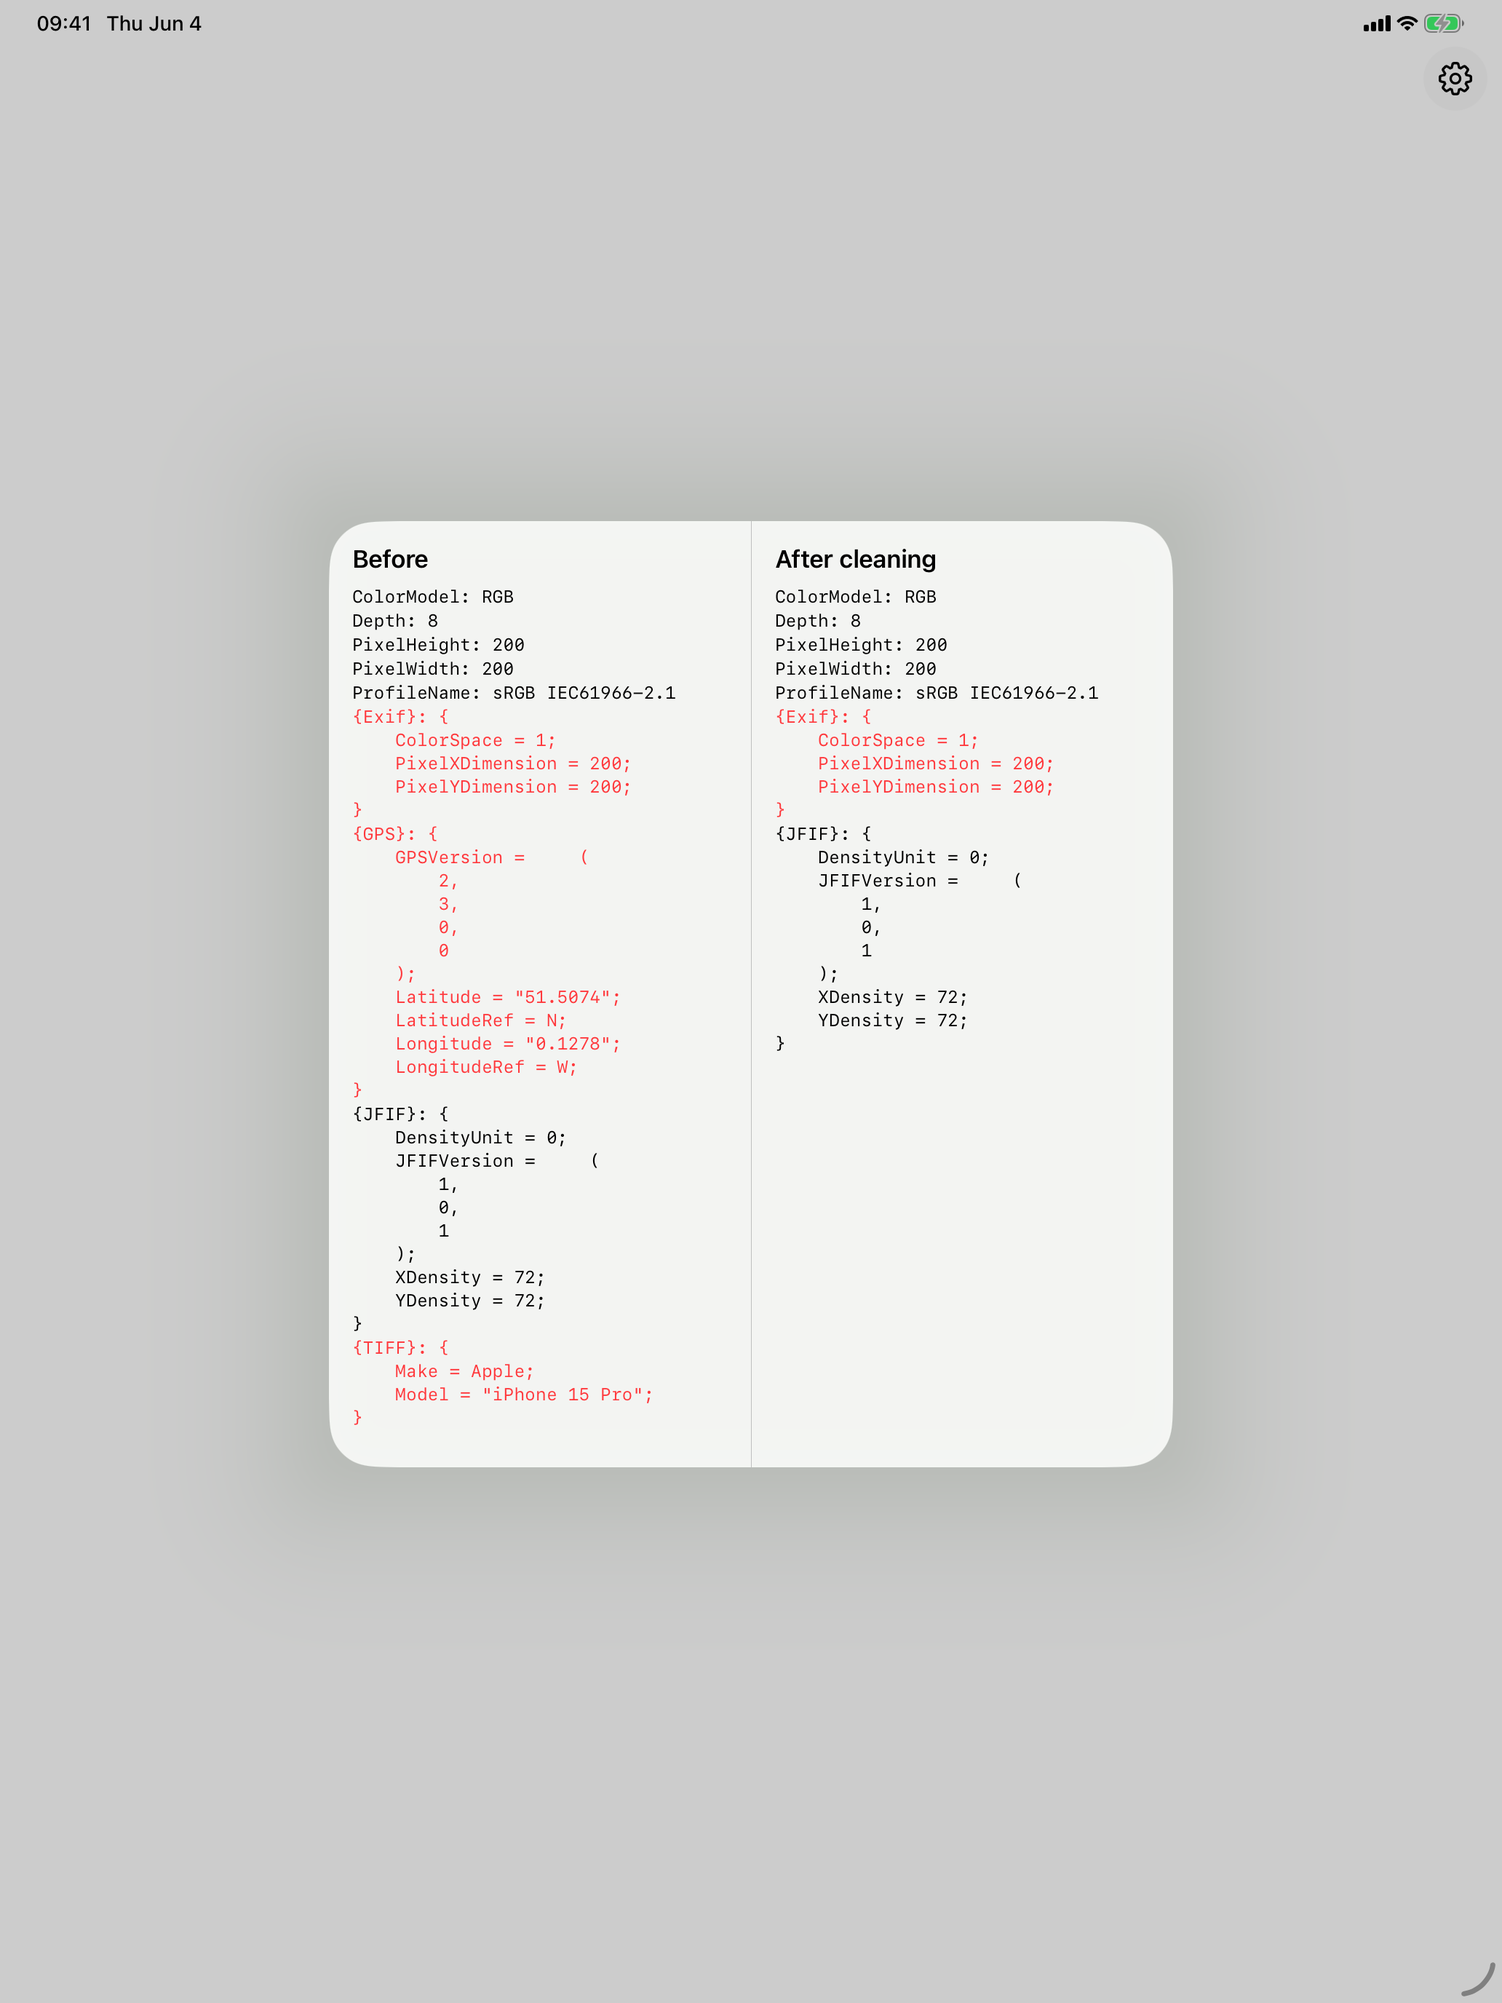
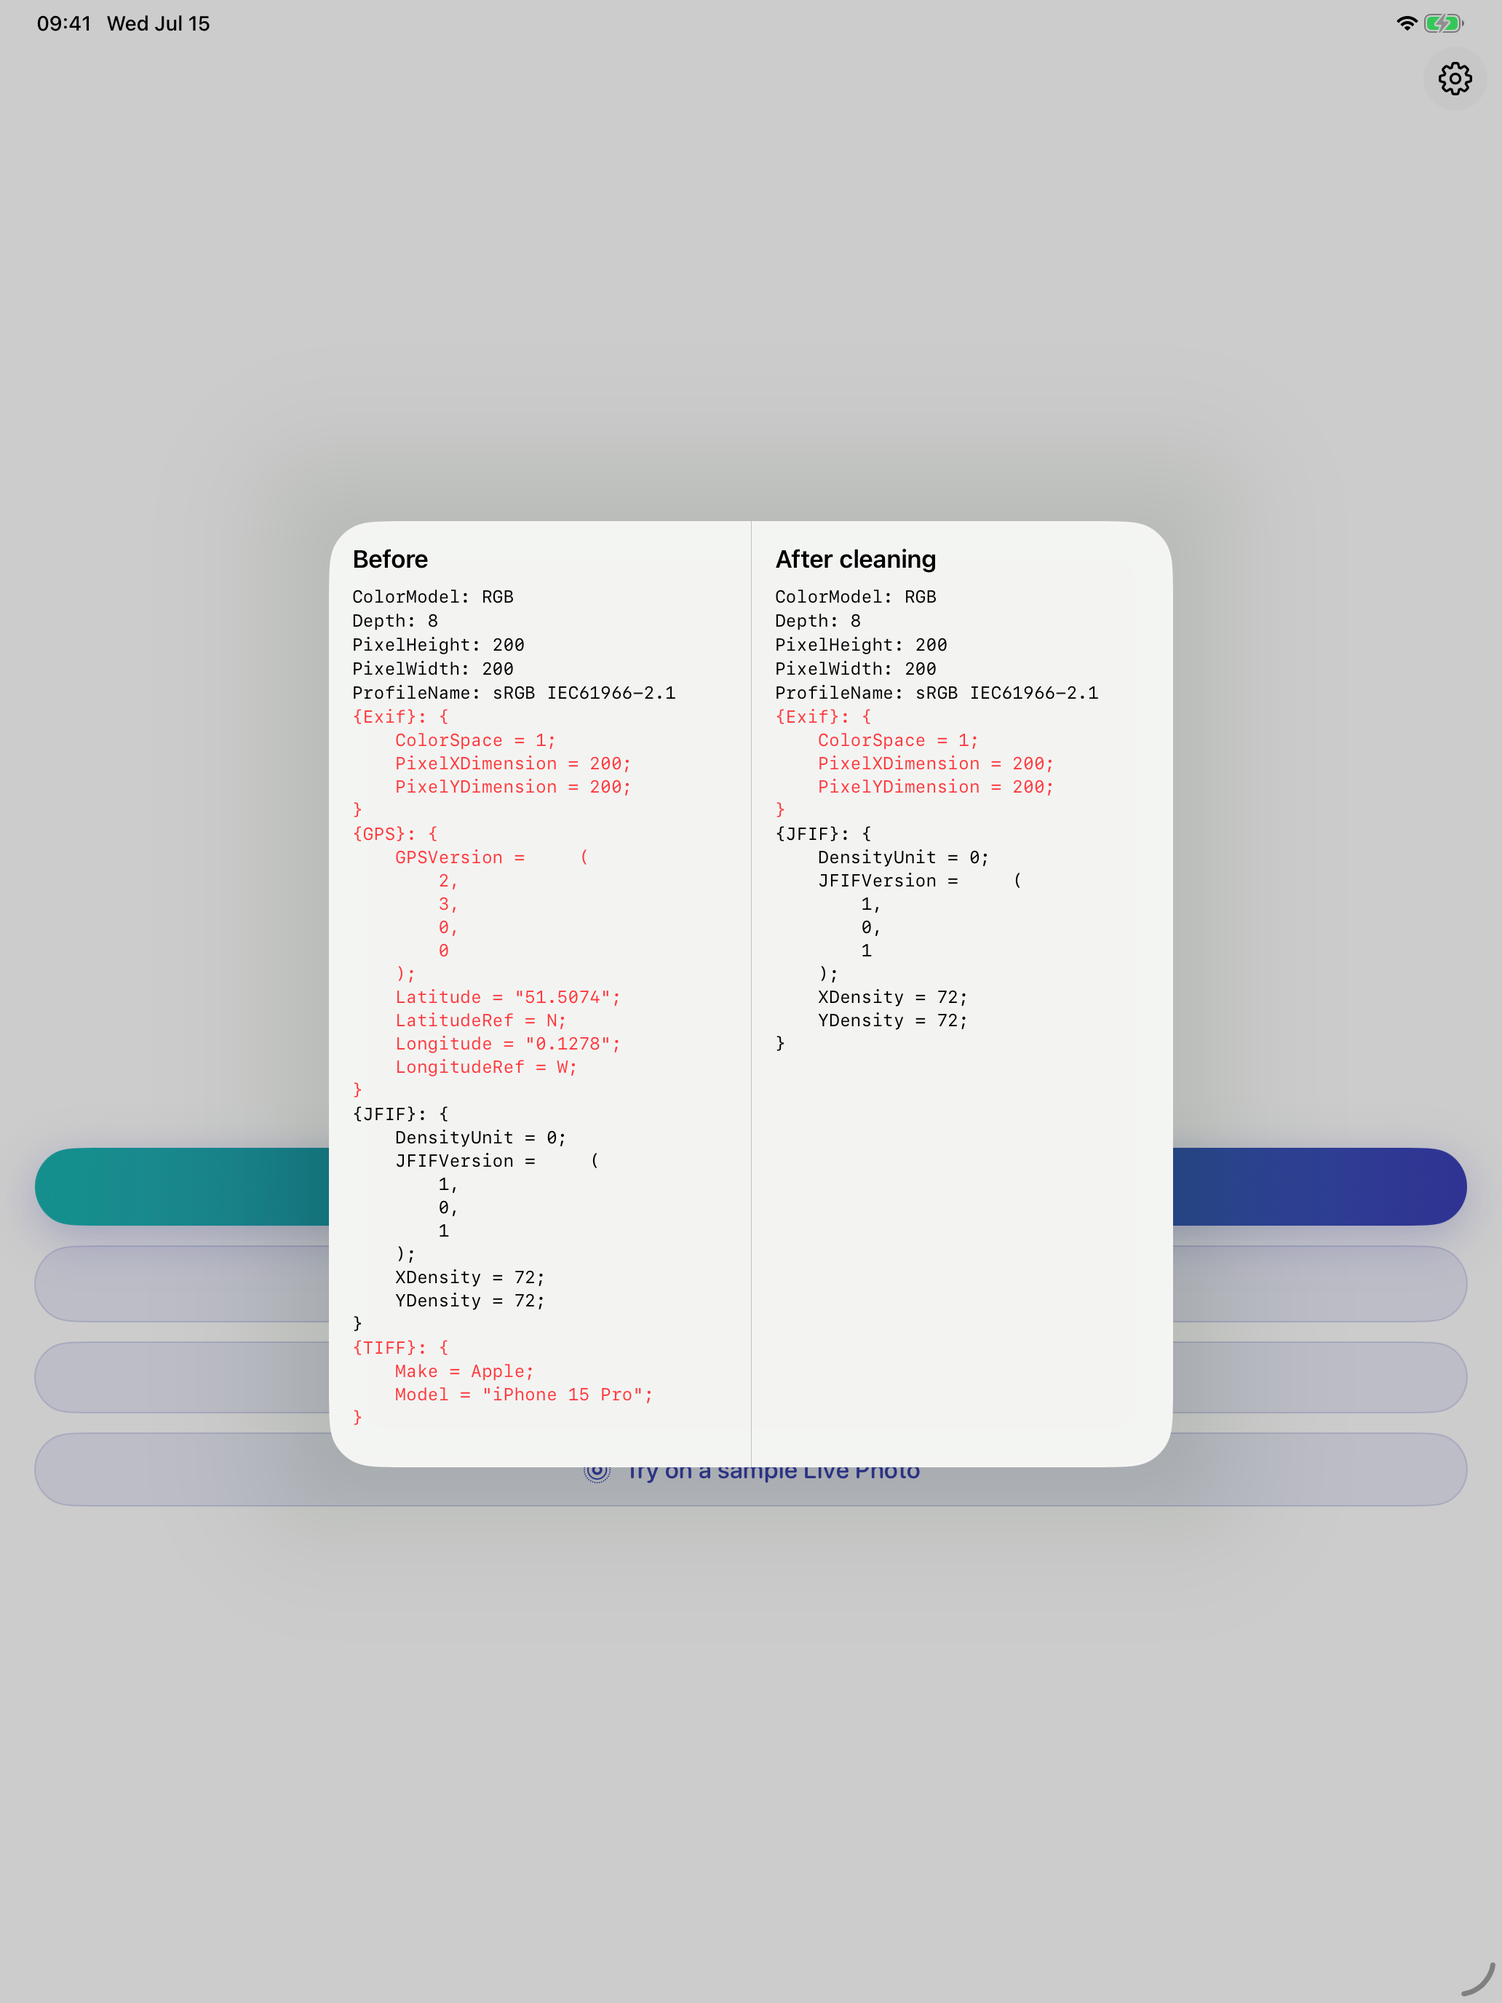
docs: refresh App Store screenshots from real UI and add audit report
- Recapture iPhone 6.9" (6) and iPad 13" (4) screenshots from the shipping UI at
  the required resolutions, with an upload-order/caption manifest in
  screenshots/README.md.
- Add docs/audit-2026-07-15.md documenting the audit findings, fixes, submission
  readiness, and remaining human-only steps.

Claude-Session: https://claude.ai/code/session_01SehBeqaxGrrKebAYgU8AKh

diff --git a/docs/audit-2026-07-15.md b/docs/audit-2026-07-15.md
@@ -1,0 +1,242 @@
+# CleanShare — Security & Submission-Readiness Audit
+
+**Date:** 2026-07-15
+**Scope:** whole repository — cleaning engine, verifier, share extension, host app,
+CI privacy gates, Info.plists/entitlements, and App Store submission package.
+**Method:** manual review + empirical reproduction on the iOS Simulator against the
+dirty fixtures, with regression tests added for every fix (TDD).
+
+CleanShare's entire value proposition is a single promise: *nothing identifying leaves
+your device.* The audit therefore treated any path where metadata could survive cleaning
+**and still be reported as success** as the highest-severity class of bug — a silent
+failure of the core guarantee is worse than a crash, because the user trusts a lie.
+
+---
+
+## Verdict
+
+The app had **one critical fail-open in the video path** and a **matching blind spot in
+the verifier** that between them meant a cleaned video's GPS could survive and the pipeline
+would still report success. Both are fixed and now proven by tests. Separately, the app was
+**not submittable** as-is: it was missing the `PrivacyInfo.xcprivacy` manifests Apple has
+required since 2024 (automatic rejection ITMS-91053). That is fixed too.
+
+After the fixes: **35/35 core tests pass** (6 fuzz tests skipped when the corpus isn't
+generated), `make verify-strip` passes end-to-end **including video**, the full app builds,
+the privacy manifests bundle into the `.app`, and the app runs on-device (verified on
+simulator, screenshots captured from the real UI).
+
+| Severity | Finding | Status |
+|---|---|---|
+| **Critical** | Video cleaner never audited its output — GPS could survive, reported as success | ✅ Fixed |
+| **Critical** | Verifier blind to the 3GPP `loci`/`©xyz`/`gps ` GPS boxes (AVFoundation doesn't surface them) | ✅ Fixed |
+| **High** | Missing `PrivacyInfo.xcprivacy` → automatic App Store rejection (ITMS-91053) | ✅ Fixed |
+| **High** | Live Photo cleaner didn't re-verify after re-injecting the content identifier | ✅ Fixed |
+| **Medium** | Handoff token not validated → path-traversal out of the workspace | ✅ Fixed |
+| **Medium** | Share extension handed off "success" on an empty result set (fail-open) | ✅ Fixed |
+| **Medium** | "No network / no trackers" CI gate didn't actually scan for network symbols | ✅ Fixed |
+| **Medium** | Inspector under-reported (PNG text chunks, Sony/Minolta MakerNotes) → false "clean" | ✅ Fixed |
+| **Low** | No orphaned-job cleanup in the shared app-group container | ✅ Fixed |
+| **Low** | No App Transport Security lockdown (defense-in-depth) | ✅ Fixed |
+| **Low** | Wrong GitHub org + a 404 support URL + AASA appID placeholder across marketing | ✅ Fixed |
+
+---
+
+## Critical findings
+
+### C-1 — Video path failed open: cleaned video never verified
+
+`MetadataAuditor.audit()` (the synchronous image auditor) returns `[]` unconditionally for
+`.mp4`, `.mov`, and `.livePhoto` kinds — it only understands `CGImageSource`. The video
+cleaner (`AVPassthroughCleaner`) finished writing the passthrough output and returned a
+success receipt **without ever calling the video-aware auditor**. Net effect: the
+"fail-closed on any residue" guarantee — the thing that makes CleanShare trustworthy — did
+not exist for video at all. A video whose GPS survived the passthrough would be reported as
+cleaned.
+
+Reproduced by cleaning a dirty fixture and observing its GPS box survive with no error
+raised.
+
+**Fix** — `Engine/AVPassthroughCleaner.swift`: after `finishWriting` and the status check,
+the output is audited and destroyed on any residue:
+
+```swift
+let leaked = try await MetadataAuditor.auditVideo(url: output, allowing: [])
+guard leaked.isEmpty else {
+    try? FileManager.default.removeItem(at: output)
+    throw CleanerError.leakDetected(keys: leaked)
+}
+```
+
+### C-2 — The verifier was blind to where video GPS actually lives
+
+Fixing C-1 is not enough, because the obvious way to audit a video —
+`AVAsset.metadata` / `.commonMetadata` / `availableMetadataFormats` — **does not surface
+the 3GPP location boxes**. GPS in QuickTime/MP4 lives in `udta` boxes named `loci`, `©xyz`
+(0xA9 xyz), or `gps ` under `moov/udta` or `moov/trak/udta`, and AVFoundation silently
+omits them from its metadata APIs. An auditor built only on AVFoundation would pass a file
+that still carries coordinates.
+
+**Fix** — `Verification/MetadataAuditor.swift`, rewritten to two layers:
+
+1. **Allowlist-inverted AVFoundation scan** — collect items from `.commonMetadata`,
+   `.metadata`, every `availableMetadataFormats`, and each track's `.metadata`, then flag
+   **any** identifier not on a tiny explicit allowlist, plus any timed-metadata track.
+   (Previously it looked only for a known-bad denylist, so anything unanticipated slipped
+   through.)
+2. **Raw MP4 box-tree parse** — `locationBoxes(in:)` opens the file with a `FileHandle`,
+   walks the `moov` box tree (skipping `mdat` so it never reads pixel data into memory),
+   and flags the sensitive `udta` leaves `loci` / `©xyz` / `gps `.
+
+Care was taken **not** to false-positive on the `creation_time` that `AVAssetWriter`
+stamps into the `mvhd`/`tkhd`/`mdhd` **headers** — those are structural fields, not
+`AVMetadataItem`s, and are not user-identifying location/author data. They are correctly
+left unflagged (confirmed by test).
+
+`AVPassthroughCleaner` and `LivePhotoCleaner` both call this auditor and fail closed.
+
+---
+
+## High findings
+
+### H-1 — Missing privacy manifests (App Store blocker)
+
+Since spring 2024, Apple auto-rejects (ITMS-91053) any app that uses a "required-reason
+API" without declaring it in a `PrivacyInfo.xcprivacy` manifest. CleanShare uses
+`UserDefaults` (via the app group) and file-timestamp APIs, and shipped **no manifest** in
+either target. It would have bounced on upload.
+
+**Fix** — created `App/Resources/PrivacyInfo.xcprivacy` and
+`ShareExtension/PrivacyInfo.xcprivacy`, each declaring:
+
+- `NSPrivacyTracking = false`, empty tracking domains, empty collected-data types
+  (truthful: CleanShare collects nothing — matches `docs/app-store-privacy.md`).
+- Required-reason declarations: `NSPrivacyAccessedAPICategoryUserDefaults` → `1C8F.1`
+  (app-group access) and `…FileTimestamp` → `C617.1`.
+
+Verified they bundle into the built `.app` and the `.appex`.
+
+### H-2 — Live Photo re-injection wasn't re-verified
+
+`LivePhotoCleaner` re-injects the required `com.apple.quicktime.content.identifier` to keep
+the still+video paired after cleaning. It did this **after** the audit, so the injection
+step itself was unverified — a bug there could reintroduce more than the one allowed
+identifier. **Fix** — re-audit after each injection (still image with the allowed keys, the
+video allowing only the content-identifier), throwing `leakDetected` on anything else.
+
+---
+
+## Medium findings
+
+### M-1 — Path traversal via the handoff token
+
+`HandoffURL.handoffToken` accepted any string from `cleanshare://handoff?t=<token>`, and
+that token is used to locate the job directory. A crafted value (`../../…`) could point
+outside the workspace. **Fix** — the token is now required to parse as a `UUID`
+(`UUID(uuidString:) != nil`); anything else is rejected. Regression test added.
+
+### M-2 — Extension failed open on an empty result
+
+If cleaning yielded **zero** receipts, `ShareViewController` still proceeded to the
+"cleaned & ready" hand-off. **Fix** — a guard now drives an explicit `.failed` state (new
+`failedView` in `CleaningProgressView`) and cancels the extension request instead of
+implying success.
+
+### M-3 — The "no network" claim wasn't mechanically enforced
+
+`docs/` promise "no network, verified by CI," but `scripts/check-no-trackers.sh` only
+grepped for third-party SDK names — it never scanned for networking symbols, and it wasn't
+even a required PR step. **Fix** — the script now also fails on
+`URLSession|URLRequest|NWConnection|CFStream|getaddrinfo|Network\.framework` (outside the
+`NetworkSilenceTests` that assert silence), and it's wired into `.github/workflows/pr.yml`
+and a `make check-trackers` target.
+
+### M-4 — Inspector reported false "already clean"
+
+The in-app "Inspect a photo" feature is a trust surface — if it says a photo is clean,
+users believe it. It skipped PNG text chunks (`Author`, `Copyright`, `Software`,
+`CreationTime`, …) and several MakerNote groups (Sony, Minolta), so identifying data could
+be present and reported as absent. **Fix** — `MetadataInspector` now parses PNG text,
+covers Sony/Minolta MakerNotes, and runs the same video location-box scan as the auditor.
+
+---
+
+## Low findings / hardening
+
+- **L-1 Orphaned-job sweep** — abandoned cleaning jobs accumulated in the shared app-group
+  container. Added `HandoffRouter.sweepExpiredJobs()` (10-minute TTL) run on launch and on
+  foreground.
+- **L-2 ATS lockdown** — added `NSAppTransportSecurity` with `NSAllowsArbitraryLoads=false`
+  to both Info.plists. The app makes no network calls; this makes any *accidental* future
+  one fail loudly rather than silently succeed.
+- **L-3 Marketing/link correctness** — the real repo is `github.com/donald-jackson/cleanshare`,
+  but ~10 marketing/landing files pointed at `<placeholder>` or `cleanshare/cleanshare`; the
+  support URL 404'd; the AASA `appID` still read `<placeholder>`. Fixed the URLs across
+  marketing, created `marketing/landing/support.html`, and set the AASA appID to
+  `<TEAM_ID>.solutions.ddj.cleanshare` (Team ID still a documented human substitution).
+
+---
+
+## App Store submission package
+
+| Item | State |
+|---|---|
+| **Screenshots — iPhone 6.9″** | ✅ 6 shots @ 1320×2868, captured from real UI (`screenshots/iPhone-6.9/`) |
+| **Screenshots — iPad 13″** | ✅ 4 shots @ 2064×2752, captured from real UI (`screenshots/iPad-13/`) |
+| **Screenshot captions / upload order** | ✅ `screenshots/README.md` |
+| **Name / subtitle / promo / keywords** | ✅ complete (`fastlane/metadata/en-US/`) |
+| **Description / release notes** | ✅ complete |
+| **Support / marketing / privacy URLs** | ✅ present (live only after DNS — human step) |
+| **App Privacy nutrition label** | ✅ "Data Not Collected" documented (`docs/app-store-privacy.md`) + backed by real `PrivacyInfo.xcprivacy` |
+| **Reviewer notes** | ✅ complete, account-free test steps |
+| **Reviewer contact PII** | ⏳ human-only placeholders (real name/email/phone) |
+
+Every screenshot comes from the shipping UI through real flows (onboarding pages, the
+"Try it on a sample photo" before/after diff, the home screen) — no marketing-only views,
+per the project's no-mocks principle.
+
+---
+
+## What remains — human-only
+
+None of these are things an agent can do; all are tracked in
+[`docs/manual-steps.md`](./manual-steps.md):
+
+1. **Apple Developer Program enrollment** ($99/yr) → Team ID.
+2. **Register bundle IDs** (`solutions.ddj.cleanshare` + `.ShareExtension`) and the
+   App Group; create the App Store Connect app record.
+3. **Fastlane Match** — private signing repo + run `match appstore` locally once; add
+   `MATCH_*` / `ASC_*` / `FASTLANE_*` to the GitHub `release` environment secrets.
+4. **Domain + DNS** — buy `cleanshare.dev`, point A records at GitHub Pages, enable the
+   custom domain, and **substitute the real Team ID** into the AASA file before deploying.
+5. **Submit the App Privacy questionnaire** — every category "No".
+6. **Fill reviewer PII** — `fastlane/metadata/review_information/{first_name,last_name,email_address,phone_number}.txt`.
+7. **Commission the real app icon** — the committed icon is a "CS" wordmark placeholder.
+
+---
+
+## Honest caveat — pre-existing lint/format debt
+
+`RootView.swift`, `OnboardingView.swift`, and `MetadataInspectionView.swift` fail
+`swiftlint --strict` / `swiftformat --lint` **at HEAD, independent of this audit** (proven
+because `RootView.swift` was never touched here). I did **not** sweep the whole tree into
+strict-clean — that is unbounded and out of scope for a security/submission audit, and it
+risks churn in files unrelated to the findings. Flagging it so it's a deliberate decision,
+not an oversight: run `swiftformat .` + `swiftlint --fix` before the strict CI gate goes
+green on these files.
+
+---
+
+## How to reproduce the green state
+
+```bash
+cd Packages/CleanShareCore && swift test          # 35 pass, 0 fail, 6 fuzz skipped
+make verify-strip                                  # cleans fixtures, asserts no residue (incl. video)
+bash scripts/check-no-trackers.sh                  # no network / no third-party SDK symbols
+xcodebuild -project CleanShare.xcodeproj -scheme CleanShare \
+  -destination 'generic/platform=iOS Simulator' build \
+  CODE_SIGN_IDENTITY="" CODE_SIGNING_REQUIRED=NO CODE_SIGNING_ALLOWED=NO
+```
+
+All changes are uncommitted on `main` — review the diff, then commit on a branch when ready
+(no commit was made automatically).

diff --git a/screenshots/README.md b/screenshots/README.md
@@ -1,0 +1,43 @@
+# App Store Screenshots
+
+Every screenshot here is captured from the **real product UI** exercised through real
+flows (no marketing-only views, no `#if DEBUG` affordances — see CLAUDE.md "No-mocks
+principle"). Status bar is pinned to 9:41 / full battery / full signal via
+`xcrun simctl status_bar override`.
+
+Re-capture at any time with `scripts/screenshots.sh` (or the manual simctl flow in
+`docs/manual-steps.md`). Upload order below is the App Store Connect display order.
+
+## Required device sizes (App Store Connect)
+
+| Folder | Device class | Resolution (portrait) | Reference device |
+|---|---|---|---|
+| `iPhone-6.9/` | iPhone 6.9" | **1320 × 2868** | iPhone 17 Pro Max |
+| `iPad-13/`    | iPad 13"    | **2064 × 2752** | iPad Pro 13" (M4) |
+
+These two sizes are the only ones App Store Connect requires for a universal iOS 17+
+app; smaller iPhone/iPad classes are down-scaled by Apple automatically.
+
+## iPhone 6.9" — upload order & captions
+
+| # | File | Source flow | Suggested caption |
+|---|---|---|---|
+| 1 | `01-hero.png`         | Onboarding page 1 | **Share without leaking a thing** |
+| 2 | `02-diff.png`         | App → "Try it on a sample photo" → before/after diff | **See exactly what's removed — GPS, camera model, timestamps** |
+| 3 | `03-how-it-works.png` | Onboarding page 2 | **Share, clean, send — three taps** |
+| 4 | `04-private.png`      | Onboarding page 3 | **No accounts. No analytics. No network.** |
+| 5 | `05-home.png`         | App home screen | **Clean from the app or the share sheet** |
+| 6 | `06-notify.png`       | Onboarding page 4 | **Told the moment your file is clean and ready** |
+
+## iPad 13" — upload order & captions
+
+| # | File | Source flow | Suggested caption |
+|---|---|---|---|
+| 1 | `01-hero.png`         | Onboarding page 1 | **Share without leaking a thing** |
+| 2 | `02-diff.png`         | App → "Try it on a sample photo" → before/after diff | **See exactly what's removed — GPS, camera model, timestamps** |
+| 3 | `03-how-it-works.png` | Onboarding page 2 | **Share, clean, send — three taps** |
+| 4 | `04-private.png`      | Onboarding page 3 | **No accounts. No analytics. No network.** |
+
+The before/after diff (shot 2) is the proof shot — it shows real `{GPS}` latitude/longitude
+and `{TIFF}` Make=Apple / Model="iPhone 15 Pro" struck out after cleaning. Keep it in the
+first two positions; it is the most persuasive frame.
